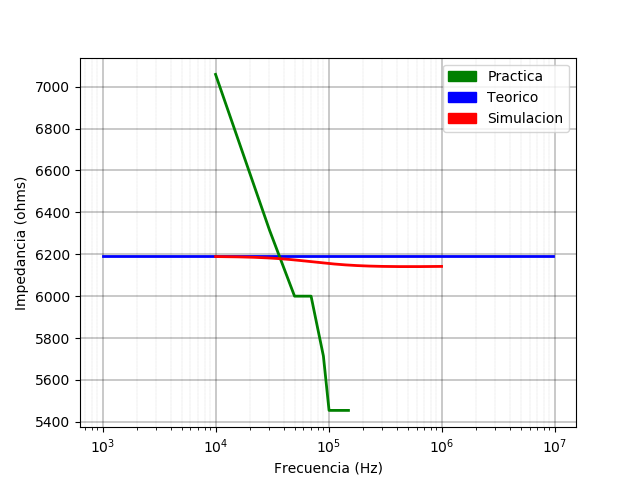
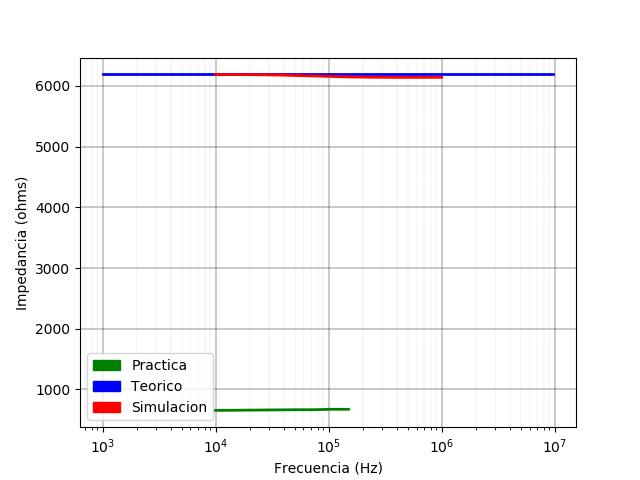
add

Changed region(s): [[0.0, 0.125, 0.9062, 0.9062]]

diff --git a/TP2/graficos/ejercicio4/derivador.py b/TP2/graficos/ejercicio4/derivador.py
@@ -89,15 +89,15 @@ def derivador_bode_teorico(r,c, mode,input_filename,spice_filename ,output_filen
     else:
         ax1.semilogx(f, pha, "green",linewidth=2)
 
-    #spice_data = read_file_spice(spice_filename)
+    spice_data = read_file_spice(spice_filename)
 
 
 
     #ax1.semilogx(spice_data["f"],spice_data["abs"])
 
-    blue_patch = mpatches.Patch(color='blue', label='A infinito')
-    green_patch = mpatches.Patch(color='red', label='A finito')
-    red_patch = mpatches.Patch(color='green', label='A=A(w)')
+    blue_patch = mpatches.Patch(color='blue', label='A finito')
+    green_patch = mpatches.Patch(color='green', label='A infinito y A=A(w)')
+    #red_patch = mpatches.Patch(color='green', label='A=A(w)')
     ax1.grid(which='major', linestyle='-', linewidth=0.3, color='black')
     ax1.grid(which='minor', linestyle=':', linewidth=0.1, color='black')
 
@@ -107,17 +107,21 @@ def derivador_bode_teorico(r,c, mode,input_filename,spice_filename ,output_filen
     else:
         plt.ylabel("Fase (grados)")
 
-    plt.legend(handles=[green_patch, blue_patch, red_patch])
+    plt.legend(handles=[green_patch, blue_patch])
     plt.savefig("output/teoricos/" + output_filename, dpi=300)
     plt.cla()
 
 
-
+derivador_bode_teorico(1800,56*(10**(-9) ),
+                       mode = "mag",
+                       input_filename="",
+                       spice_filename="input/caso1_derivador_sc.txt",
+                       output_filename="derivador_teoricoA.png")
 derivador_bode_teorico(1800,56*(10**(-9) ),
                        mode = "pha",
                        input_filename="",
                        spice_filename="input/caso1_derivador_sc.txt",
-                       output_filename="derivador_teorico_fase.png")
+                       output_filename="derivador_teorico_faseA.png")
 
 #dibujar_bode(1500,5.8*pow(10,-9),"","","")\
 
@@ -126,4 +130,4 @@ ax1.minorticks_on()
 ax1.grid(which='major', linestyle='-', linewidth=0.3, color='black')
 ax1.grid(which='minor', linestyle=':', linewidth=0.1, color='black')
 
-plt.show()
+#plt.show()

diff --git a/TP2/graficos/ejercicio4/calculos.py b/TP2/graficos/ejercicio4/calculos.py
@@ -5,7 +5,12 @@ def get_rational_coeffs(expr,var):
     #print(num,denom)
     return [sp.Poly(num, var).all_coeffs(), sp.Poly(denom, var).all_coeffs()]
 
+def divide_by_factor(expr, factor):
 
+    num = [sp.simplify(expr[0][i] / factor) for i in range(len(expr[0]))]
+    den = [sp.simplify(expr[1][i] / factor) for i in range(len(expr[1]))]
+
+    return [num,den]
 def calculos_derivador():
     #### Caso derivador no ideal - Avol finito
 
@@ -71,5 +76,17 @@ def calculos_integrador():
     print(num)
     print(den)
 
+    ### Caso avol infinito
+    print("Avol infinito independiente de w, numerador/denominador")
+
+    a = a0 / (1+s/wp)
+    H = -Z2 / Z1 / (1 + (Z1 + Z2) / (a * Z1))
+
+    coef = get_rational_coeffs(H,s)
+    print(coef)
+    factor = c*r*wp
+    coef = divide_by_factor(coef,factor)
+
+    print(coef)
 
 calculos_integrador()
